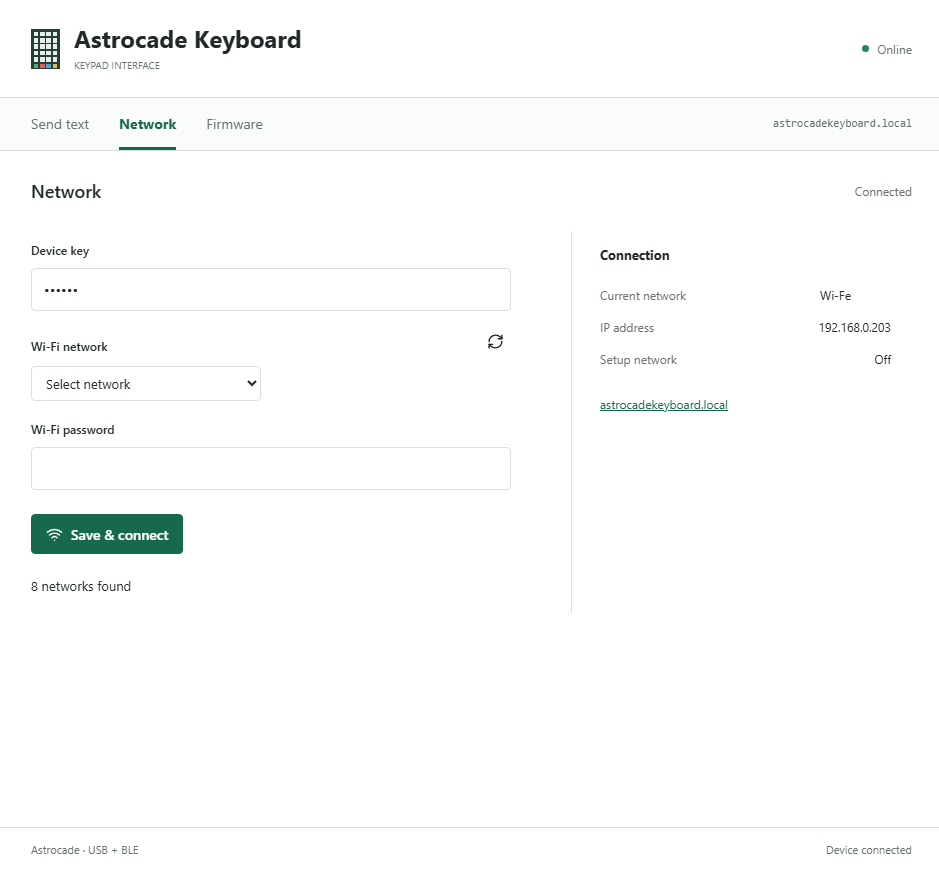
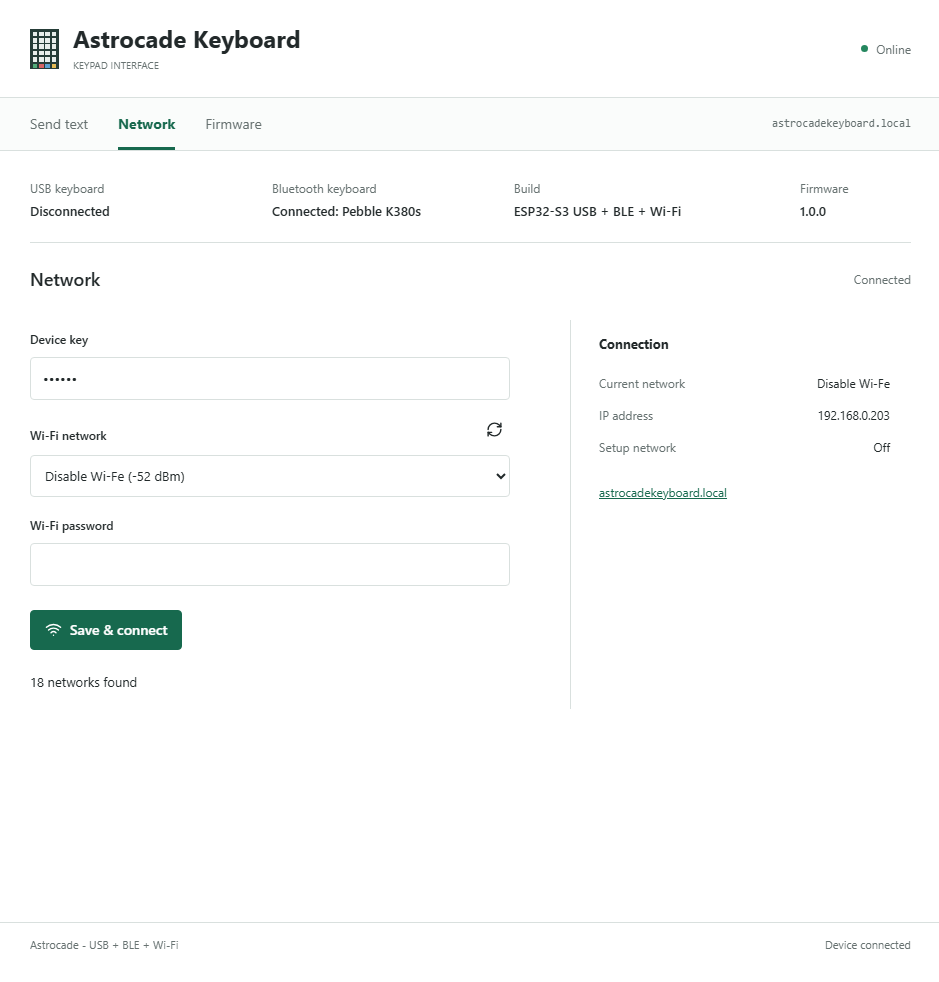
Updated images and readme

diff --git a/README.md b/README.md
@@ -1,0 +1,337 @@
+# Astrocade USB + BLE BASIC Keyboard Adapter
+
+This PlatformIO / ESP-IDF project supports ESP32-S3-WROOM-1-N8R2 boards and
+classic ESP32-WROOM-32-family 4 MB boards. It drives a CD74HCT22106E
+crosspoint switch to emulate the Bally
+Astrocade 24-key keypad while accepting:
+
+- a wired USB HID Boot keyboard (full S3 build only);
+- a Bluetooth Low Energy HID keyboard;
+- BASIC text pasted into the adapter's web page.
+
+Includes Wi-Fi setup, BASIC text validation and paced transfer, and wireless
+firmware updates. BASIC is the current overlay; more overlays are planned.
+
+**Start here:** [Community wiki](docs/wiki/Home.md) |
+[Build and upload](docs/wiki/Build-and-Upload.md) |
+[First use](docs/wiki/First-Use.md) |
+[Hardware wiring](WIRING.md) |
+[Troubleshooting](docs/wiki/Troubleshooting.md)
+
+For maintainers: [Source guide](src/SOURCE-GUIDE.txt),
+[dependencies](docs/wiki/Dependencies.md),
+[publishing checklist](docs/PUBLISHING.md), and
+[image catalog](docs/images/README.md).
+
+![proto board](https://raw.githubusercontent.com/MacGyverr/Astrocade-ESP32-Keyboard/main/docs/images/proto-board.png)
+![web example](https://raw.githubusercontent.com/MacGyverr/Astrocade-ESP32-Keyboard/main/docs/images/web-example.png)
+
+Bluetooth Classic keyboards are not supported by ESP32-S3 hardware. A keyboard
+that advertises to a phone as "Bluetooth 3.0 Keyboard" is almost certainly a
+Classic HID keyboard, not BLE HID, and will not appear in this firmware's BLE
+scan.
+
+The original Astrocade keypad remains connected in parallel.
+
+## Build from a fresh clone
+
+Open this folder in VS Code with the PlatformIO extension and run Build.
+Or connect the board's **CH343 COM/UART** USB port with a data cable and choose
+Upload: PlatformIO builds first, then flashes. Select the correct serial port
+if several boards are connected. Some systems need a CH343 driver or serial
+port permissions; those OS requirements are separate from firmware libraries.
+Internet access is needed for the first build: PlatformIO installs the pinned
+ESP32 platform/toolchain, and ESP-IDF's component manager downloads USB HID,
+mDNS, and cJSON from `src/idf_component.yml`. No factory-driver patches or
+manual library installation are needed. Keep `sdkconfig.defaults*` and
+`dependencies*.lock` in the repository; `managed_components/` and `.pio/`
+are generated and should not be committed.
+
+`ASTROCADE_SERIAL_DEBUG_ENABLED=0` silences per-key and diagnostic logs, but
+boot, pairing-code, keyboard-ready, AP credentials, admin-key, and joined
+network/IP messages remain visible on the CH343 COM port at 115200 baud.
+
+USB, BLE, and web input do not require one another. USB/BLE work without a
+Wi-Fi connection; web input works without either keyboard, including directly
+through the setup AP without a router. All may be connected at once. During a
+web text transfer, physical keys are intentionally ignored except Escape to
+cancel, keeping pasted programs from being mixed with keyboard input.
+
+## Hardware GPIOs
+
+The full build is the default. For BLE + Wi-Fi without a USB host, select
+`Astrocade-Keyboard-esp32-s3-ble-wifi` in PlatformIO Project Tasks. Both use the
+same S3 N8R2 memory configuration and default GPIOs; no source fork is required.
+The eight `ASTROCADE_CROSSPOINT_*_GPIO` flags in `[s3]` change the ESP32 side
+for both S3 profiles. `Astrocade-Keyboard-esp32-4mb-ble-wifi` supports classic
+ESP32 4 MB boards with its own safe GPIO map, no USB host, and RGB disabled.
+**Do not use the S3 wiring on classic ESP32: GPIO6/7 are flash connections.**
+See [configuration](docs/wiki/Configuration.md) for checks and restrictions.
+
+The following table describes the **default** wiring:
+
+| ESP32-S3 | CD74HCT22106E signal | 28-pin PDIP pin |
+|---|---|---|
+| GPIO4 | A4 | 28 |
+| GPIO5 | A3 | 27 |
+| GPIO6 | A2 | 26 |
+| GPIO7 | A1 | 25 |
+| GPIO15 | A0 | 24 |
+| GPIO16 | A5 | 1 |
+| GPIO17 | DATA | 4 |
+| GPIO18 | STROBE | 2 |
+| GPIO19 | USB D- |
+| GPIO20 | USB D+ |
+| GPIO48 | on-board RGB LED status |
+
+GPIO19 and GPIO20 are never used as general-purpose GPIOs; they are kept for
+the board's native USB-C / OTG connector. GPIO48 is also kept off the
+crosspoint bus because the pictured board maps its built-in RGB LED there.
+
+Package note: the CD74HCT22106E datasheet lists the `E` package as 28-lead
+PDIP. See [WIRING.md](WIRING.md) for the full prototype wiring outline,
+including power, reset, pull resistors, and the Bally matrix lines.
+
+## BLE enrollment and reconnect
+
+The BLE transport uses the stock ESP-IDF NimBLE central APIs proven in the
+separate BLE-pairing test. No framework patches or private HID-driver APIs are
+required. Security completes before HID discovery and notification subscription.
+The stock HID report-map parser identifies keyboard reports; vendor and media
+reports are not sent to the BASIC overlay.
+
+1. Put the keyboard into pairing mode and reset the adapter.
+2. During the 10-second startup window, a saved bond takes priority; otherwise
+   a keyboard candidate may enroll.
+3. If prompted in the serial monitor, type `123456` and Enter on the keyboard.
+4. Afterwards, use the same keyboard preset with a short press. Do not hold it
+   into pairing mode. Saved NimBLE bonds reconnect after keyboard power-off,
+   sleep, or ESP32 reset without entering the passkey again.
+
+After startup, only bonded peers can reconnect, including unnamed directed
+advertisements. An unpaired adapter stops scanning until reboot. USB remains
+available throughout. To replace a keyboard or clear stale bonds, hold BOOT
+(GPIO0) for three seconds while firmware is running; the adapter clears only
+BLE bonds/preferred-keyboard metadata and restarts for enrollment.
+
+When upgrading from the old Bluedroid firmware, pairing may be required once
+because Bluedroid and NimBLE use different bond stores. A bond made by the
+BLE-pairing project on this ESP32 should remain usable when uploading normally;
+do not erase flash or clear BOOT unless reconnect actually fails.
+
+Connection, pairing, and key/crosspoint logs remain available. Advertisement,
+GATT-discovery, and report-detail logs are quiet by default; enable
+`ASTROCADE_BLE_VERBOSE_DEBUG_ENABLED=1` only for troubleshooting.
+`ASTROCADE_SERIAL_DEBUG_ENABLED=0` disables application serial debug.
+Setup and connection notices still print with that flag off.
+Caps Lock, Num Lock, purple BLE activity, and BASIC mappings use the same
+router as USB. Supported input is a conventional 8-byte keyboard report or
+the K380s-style 7-byte report without the reserved byte; boot input is the
+fallback. NKRO-only/proprietary layouts are not decoded.
+
+## USB behavior
+
+USB is initialized only in the full S3 USB + BLE + Wi-Fi profile.
+
+The USB implementation uses Espressif's `usb_host_hid` component and Boot
+Protocol keyboards. The native ESP32-S3 USB pins remain:
+
+- GPIO19 = D-
+- GPIO20 = D+
+
+USB CDC and USB Serial/JTAG console output stay disabled so they do not share
+the native USB OTG port. Debug output uses the board's CH343 USB-to-serial COM
+port at 115200 baud.
+
+Native USB host mode also requires the OTG connector/cable/adapter to provide
+host-role wiring and 5 V VBUS power to the keyboard. If the keyboard's lock
+LEDs never light and the monitor repeatedly reports no HID attach event, the
+keyboard is not being powered/enumerated at the USB layer yet.
+
+## Status LED and debug flags
+
+The on-board RGB LED on GPIO48 is enabled only for the explicitly identified
+N8R2 profiles. All other builds disable it. The N8R2 status patterns are:
+
+- slow pulsing blue during the startup enrollment scan when no preferred BLE
+  keyboard is saved;
+- fast pulsing blue while loading a saved BLE keyboard or after a new BLE
+  candidate is detected;
+- four fast red pulses if the startup scan finds no keyboard;
+- orange on USB keypress detection;
+- purple on BLE keypress detection.
+
+The LED work runs in a low-priority task. Input and crosspoint timing paths only
+queue status events.
+
+CD74HCT22106 STROBE mirror blinking is disabled by default because it adds
+visual noise during key timing tests. Enable/disable LED activity, key debug
+prints, or strobe blinking from `platformio.ini`:
+
+    -DASTROCADE_STATUS_LED_ENABLED=0
+    -DASTROCADE_SERIAL_DEBUG_ENABLED=0
+    -DASTROCADE_KEY_DEBUG_ENABLED=0
+    -DASTROCADE_CROSSPOINT_DEBUG_ENABLED=0
+    -DASTROCADE_CROSSPOINT_STROBE_LED_ENABLED=1
+    -DASTROCADE_CROSSPOINT_SETUP_DELAY_US=1
+    -DASTROCADE_CROSSPOINT_STROBE_LOW_US=1
+    -DASTROCADE_CROSSPOINT_RECOVERY_DELAY_US=1
+    -DASTROCADE_KEYPRESS_DOWN_MS=15
+    -DASTROCADE_KEYPRESS_GAP_MS=5
+    -DASTROCADE_BACKSPACE_LEFT_ERASE_ENABLED=0
+    -DASTROCADE_USB_CAPS_LOCK_LED_DEFAULT_ON=0
+    -DASTROCADE_USB_NUM_LOCK_LED_DEFAULT_ON=0
+    -DASTROCADE_USB_NUM_LOCK_TOGGLE_ENABLED=0
+    -DASTROCADE_USB_CAPS_LOCK_TOGGLE_ENABLED=0
+
+USB keyboards are initialized with Caps Lock and Num Lock LEDs on by default.
+Caps Lock keeps letter entry in the natural uppercase BASIC style. Num Lock
+nudges full-size keyboards to report keypad digits/operators instead of keypad
+navigation. The physical Caps Lock and Num Lock keys toggle those LED states at
+runtime. In BASIC overlay mode, letters are still sent through the Bally's
+uppercase BASIC letter mapping.
+
+## BASIC overlay architecture
+
+The firmware is split into layers:
+
+    USB HID --------\
+                     \
+                      keyboard_router
+                     /       |
+    BLE HID --------/        v
+                         overlay_basic
+                              |
+                              v
+                        crosspoint
+                              |
+                              v
+                         Astrocade
+
+This separation is intentional.
+
+A future overlay implementation can be added beside `overlay_basic.cpp` and
+selected from the persistent `OverlayMode` setting without rewriting the USB,
+BLE, or CD74HCT22106 layers.
+
+## Wi-Fi, text transfer, and OTA
+
+With `ASTROCADE_WEB_ENABLED=1`, Wi-Fi starts after BLE startup enrollment.
+When no saved network is available, join `AstrocadeKeyboard-XXXX` using
+Wi-Fi password `12345678`, then open `http://192.168.4.1/`.
+The separate device administration key is `123456`. These are intentionally
+simple development credentials; do not expose this device to untrusted networks.
+They are defined in `src/web_portal.cpp` and replace the older random device key
+without erasing saved Wi-Fi credentials or Bluetooth bonds.
+
+The Network page scans nearby networks into a dropdown, with a manual option
+for hidden networks. Once connected, use `http://astrocadekeyboard.local/`
+or the IP printed in the monitor. The setup AP shuts down after 30 seconds
+connected, and returns if the saved network remains unavailable.
+
+Joining the setup AP supports the phone/computer's captive-network setup
+prompt through DNS/HTTP redirection and DHCP portal discovery. Whether it
+opens automatically is controlled by the client OS. If no prompt appears,
+open `http://192.168.4.1/` manually; no serial monitor is required.
+
+The Send page validates the whole text against the active overlay before
+starting. CR/LF line endings become Enter; a final Enter is added when needed.
+Bally BASIC is currently the only overlay. Sending uses the dedicated keypad
+worker and the configured keypress timings; `ASTROCADE_TEXT_LINE_GAP_MS`
+adds a pause after each line. Pause/cancel finish the current character.
+
+With serial and crosspoint debug enabled, both keyboard and pasted-text output
+produce matrix write records in the monitor. A bounded background logging queue
+keeps serial output out of the timed keypress path; if it fills, debug records
+are dropped (with a warning), not keypad operations.
+
+Firmware uploads use the Firmware page and the device administration key.
+Upload the application's `firmware.bin`, not a merged flash image.
+OTA and network scans are blocked while a text transfer is active.
+The 8 MB partition table includes two 2.5 MB application slots for OTA.
+
+## Flash requirement
+
+The S3 profiles use `partitions_8mb.csv` and `sdkconfig.defaults.esp32s3`:
+8 MB Quad flash and 2 MB Quad PSRAM. The classic ESP32 profile uses
+`partitions_4mb.csv` and `sdkconfig.defaults.esp32`: 4 MB flash, no PSRAM.
+Common SDK settings are in `sdkconfig.defaults`.
+
+Firmware version defaults to `1.0.0`, configured by
+`ASTROCADE_FIRMWARE_VERSION` in `platformio.ini`. The web page reports that
+version, build profile, detected flash size, and live USB/BLE connection names.
+The board label comes from the selected build, not automatic PCB identification.
+
+If the development board has a different flash size, change the PlatformIO
+flash-size setting and partition table before flashing.
+
+PlatformIO's build summary reports static internal SRAM usage. Even with PSRAM
+enabled, the RAM percentage line is expected to use the ESP32-S3 internal RAM
+budget rather than adding the 2 MB external PSRAM pool.
+
+## Build
+
+Open this directory in VS Code with PlatformIO installed, then:
+
+    PlatformIO: Build
+
+or from a PlatformIO terminal:
+
+    pio run
+
+Flash with:
+
+    pio run -t upload
+
+The serial monitor is useful for USB/BLE diagnostics:
+
+    pio device monitor -b 115200
+
+## Current BLE keyboard compatibility
+
+The BLE input path requires a Bluetooth Low Energy HID keyboard. Bluetooth
+Classic HID keyboards, including devices shown by phones as Bluetooth 2.x or
+3.0 keyboards, require different hardware because ESP32-S3 does not include
+Bluetooth Classic/BR-EDR.
+
+For compatible BLE HID keyboards, the input path expects a keyboard report
+compatible with the normal
+8-byte boot-style HID keyboard report:
+
+- modifier byte
+- reserved byte
+- six HID key usage bytes
+
+The K380s seven-byte report is also accepted by inserting the reserved byte.
+The stock HID descriptor parser identifies the keyboard report so media and
+vendor reports are ignored. Proprietary/NKRO-only layouts still require a
+separate decoder.
+
+Compile-time report conversion checks (from a PlatformIO terminal):
+
+```powershell
+& "$env:USERPROFILE\.platformio\packages\toolchain-xtensa-esp-elf\bin\xtensa-esp32s3-elf-g++.exe" -std=c++17 -Wall -Wextra -Werror -Iinclude -fsyntax-only test/ble_report_test.cpp
+```
+
+## Safety behavior
+
+On USB disconnect, BLE disconnect, malformed rollover reports, or HID transfer
+errors, the affected keyboard state is discarded. Pending synthetic BASIC
+keypresses are cleared on source disconnect.
+
+The crosspoint layer is reference-counted so one input source cannot release a
+matrix position still held by another source.
+
+The external CD74HCT22106 MR/reset hardware from the original design remains
+the hardware-level protection against an ESP reset leaving a keypad crosspoint
+closed.
+
+## Licensing and community
+
+Project license selection is pending; add the chosen LICENSE before publishing
+this as an open-source release. Third-party components keep their own licenses;
+see [THIRD_PARTY.md](THIRD_PARTY.md).
+
+This is an independent community project, not an official Bally product.
+Please read [CONTRIBUTING.md](CONTRIBUTING.md) before proposing changes and
+[SECURITY.md](SECURITY.md) before placing the adapter on a network.
